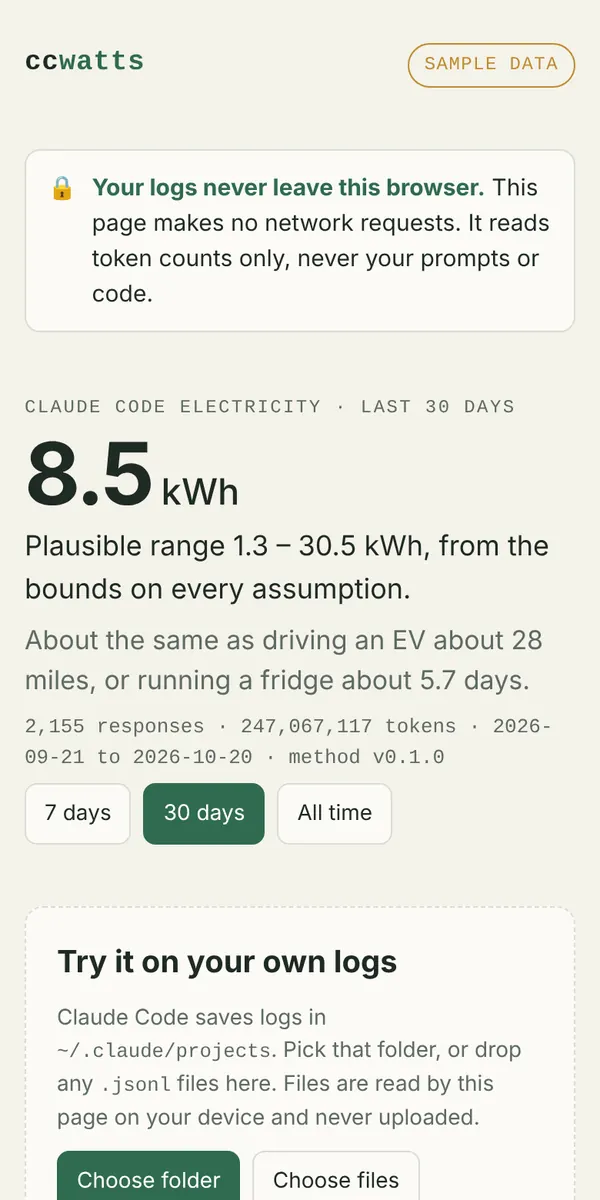
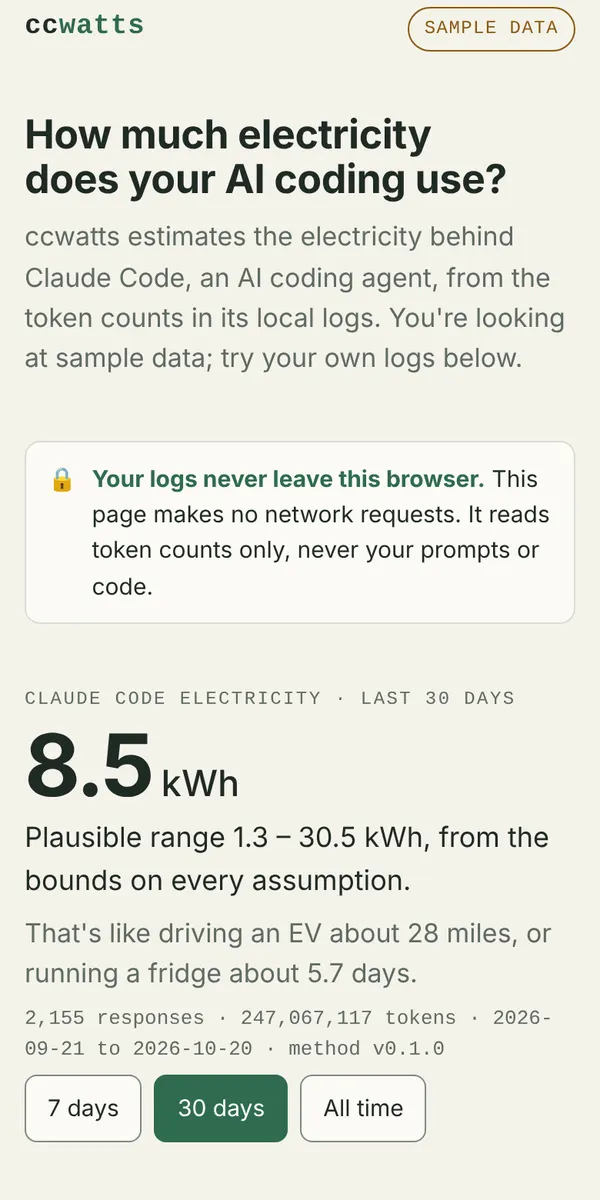
WEB-M4.7: re-shoot the ccwatts screenshot after ccwatts #22-#29 (#18)
Claude-Session: https://claude.ai/code/session_011au172tDRCb1uXjCPLZopx

diff --git a/HANDOFF.md b/HANDOFF.md
@@ -2,7 +2,7 @@
 
 _Read this before starting work on this repo. Update it in the same commit whenever you make progress._
 
-Last updated: 2026-10-22 (WEB-M3.6: Hearth no-login demo at /demo/hearth/, family app page refreshed; WEB-M3.5 Role Radar move merged in PR #14)
+Last updated: 2026-10-23 (ccwatts screenshot re-shot after ccwatts #22-#29 merged)
 
 Studio-wide status (what's done across every project and what's waiting on Chase): https://github.com/holroydchase-afk/pm-tools/blob/main/STUDIO-STATUS.md. Product repos record portfolio facts in their own HANDOFF.md "Portfolio / public presence" section.
 
@@ -41,7 +41,7 @@ ux-reviewer and qa-tdd reviewed the site and pm-tools; staff-pm ranked it: `docs
 - Studio agents synced into `.claude/agents/` from studio-agents (includes the upgraded ux-reviewer with the visual pass and showcase review, studio-agents draft PR #6 or later); re-sync with its `scripts/sync.sh`.
 - Done (overnight round 5, R4-3): How I work now says Build Slate caps "five active projects" and lists the roadmap lanes as "Later, Next, Now and Done", matching the pm-tools demo.
 - Overnight Oct 22 (draft PR, branch `claude/project-thread-hsgkpq-m47`): WEB-M4.7 one 390px phone screenshot under the lede on Role Radar, ccwatts and Energy Scanner (`assets/shots/*.webp`, 26–46 KB, sample data only, Role Radar from its public view; set with `product(shot=...)`). UX-13 44px tap targets on nav, footer and back links. UX-14 "Claude artifact" jargon on Role Radar's stack line. UX-15 CTAs "Try the live demo / playground / app", plus a GitHub link on Role Radar. UX-12 the Role Radar demo's back link opens role-radar.html. To re-shoot: Playwright at 390x844 with deviceScaleFactor 2 (Energy Scanner with the clock set to 7:42 PM and three steps ticked), crop to 780x1560, then save as 600x1200 WebP q78.
-- ccwatts intake (Oct 22): the Stack line no longer says `npx ccwatts` (it 404s until the npm name is final). The ccwatts playground links back to https://chaseholroyd.com/ccwatts.html, so keep that URL stable. Re-shoot `assets/shots/ccwatts-phone.webp` once ccwatts PRs #22–#29 merge.
+- ccwatts intake (Oct 22): the Stack line no longer says `npx ccwatts` (it 404s until the npm name is final). The ccwatts playground links back to https://chaseholroyd.com/ccwatts.html, so keep that URL stable. `assets/shots/ccwatts-phone.webp` was re-shot on Oct 23 from ccwatts main (23cc31a, after #22–#29): the new headline and intro, the privacy note and the 8.5 kWh result. It's built locally (`npm ci && npm run build`, open `packages/web/dist/ccwatts.html`) and cropped 780x1560 from y=135 so the back link is left out.
 - Round 2 (UXR2-1..3, QAR2-1) done. Nothing at P2 or above is left on the product pages; see the review doc.
 - Round 1 review fixes (caption, desktop two-column hero, re-crop, 44px name/skip/demo back link, footer title) are logged in the review doc's "Overnight rounds" section.
 - Not here: "Built with" and "calm by default" aren't on this site (pm-tools copy). "anxiety-less" sits in How I work, which belongs to WEB-M5 PR #12.
